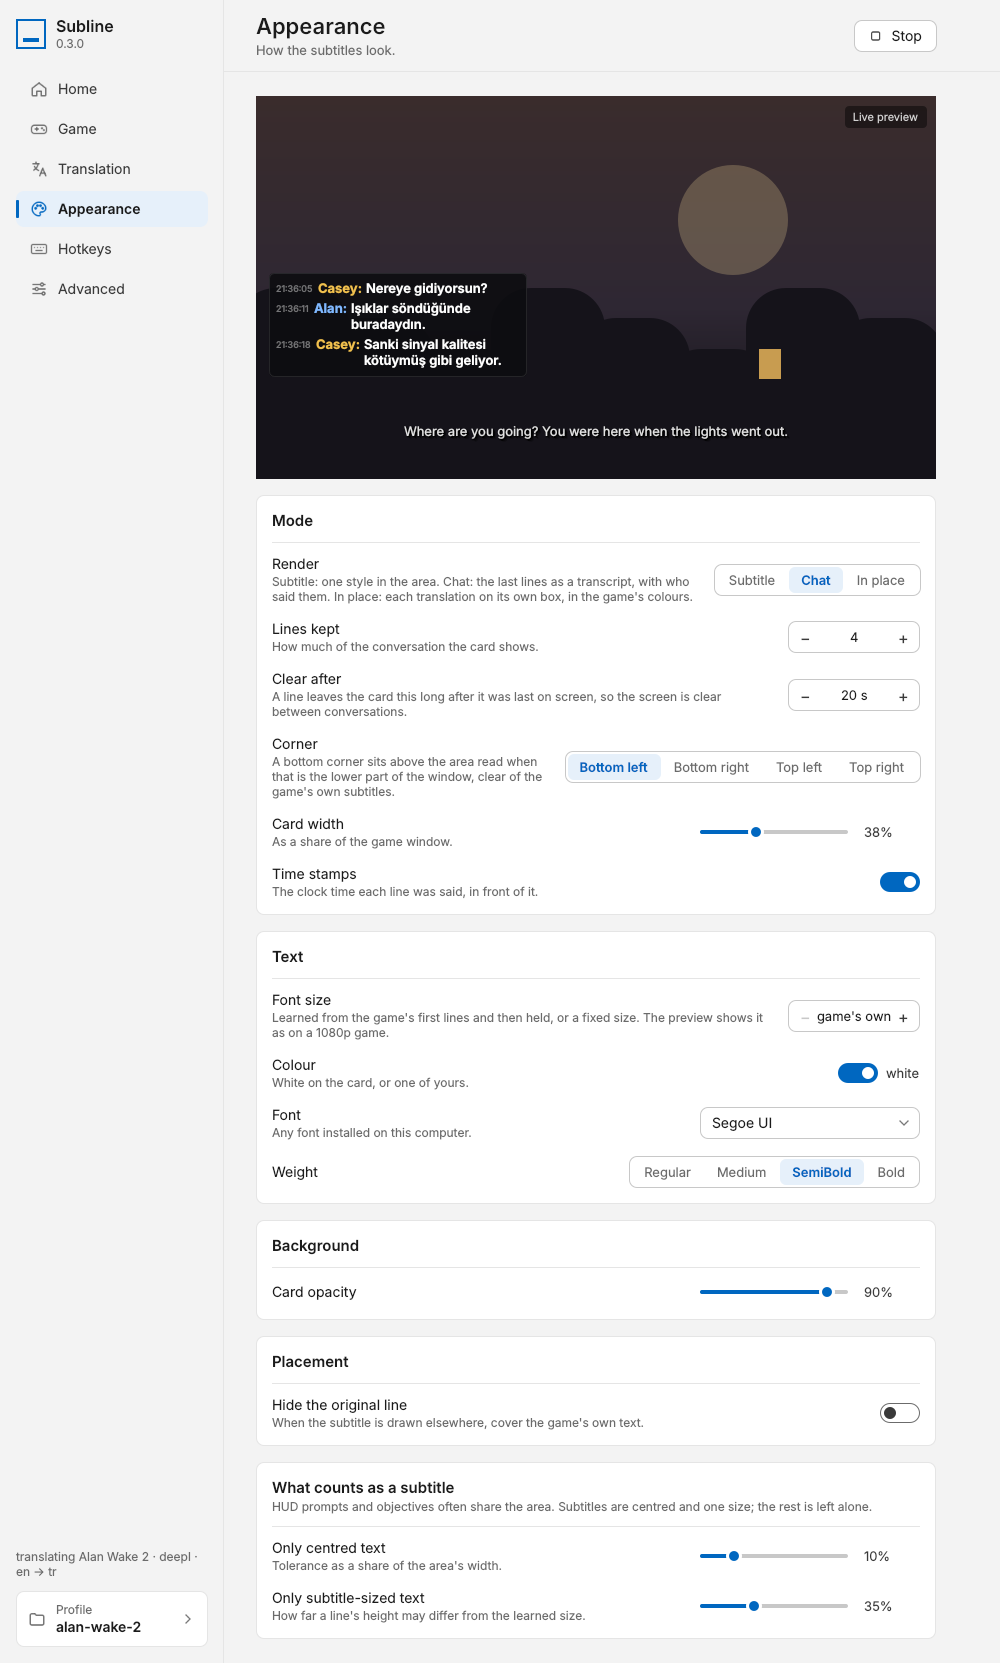
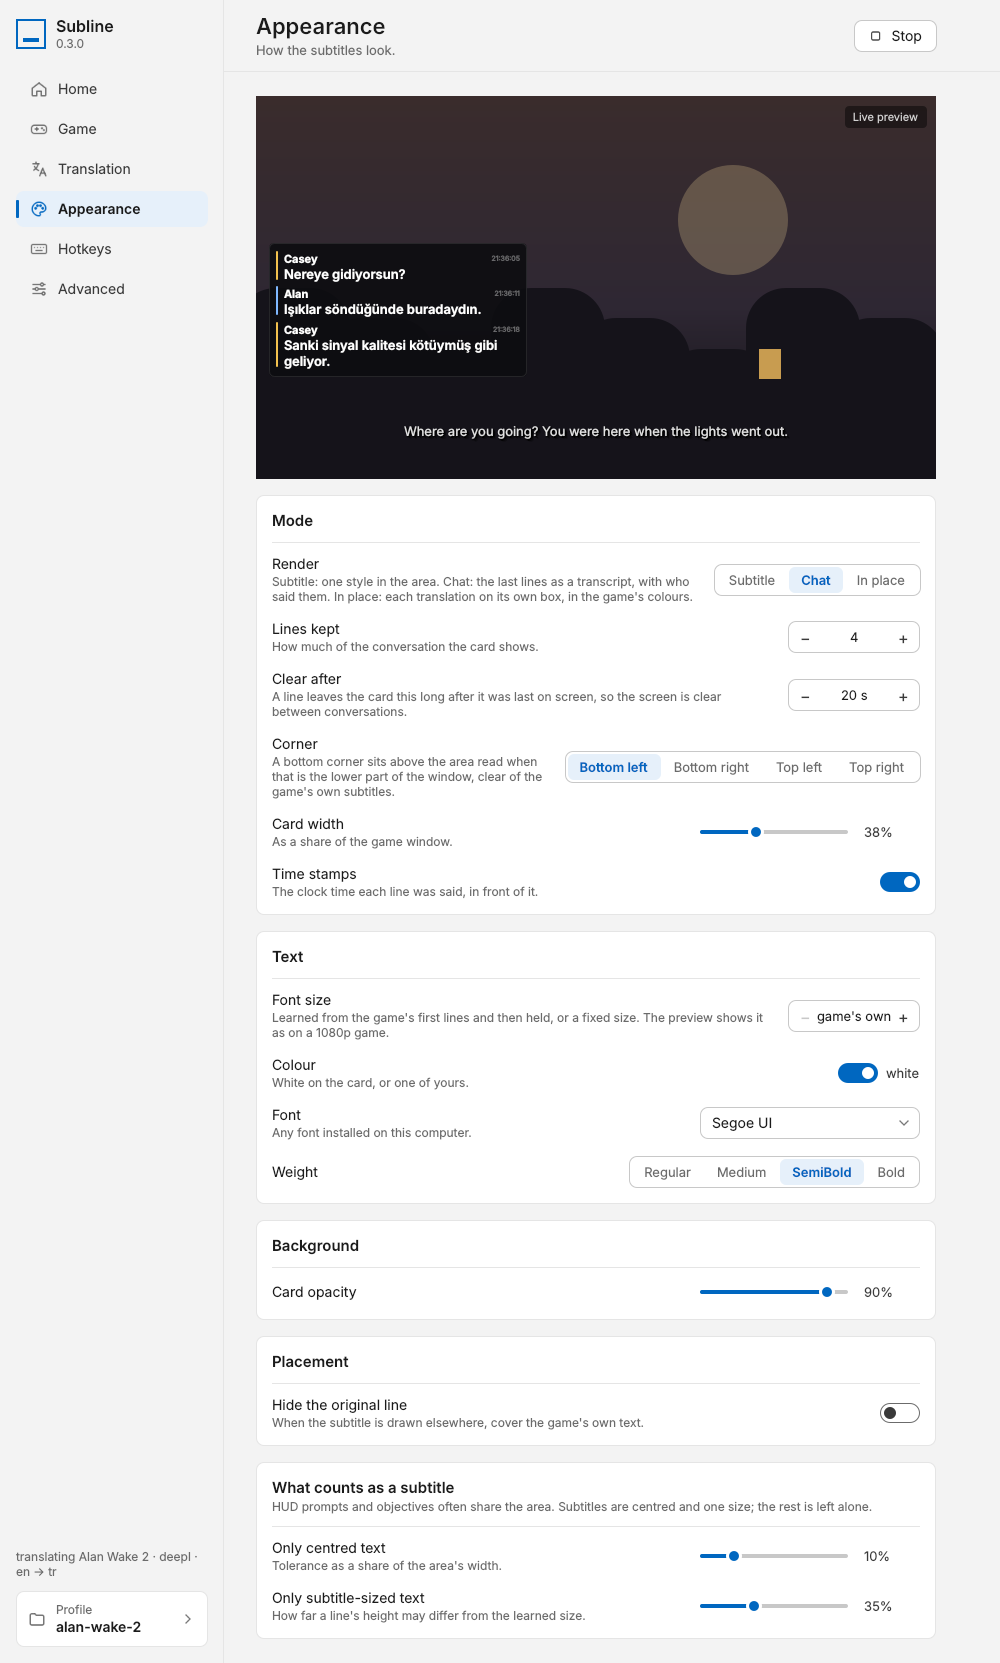
Chat card: a colour bar per line, the name over the words, the time at the right
The look picked from five rendered alternatives: each line gets a bar in
its speaker's colour beside it (white for a line with no speaker), the
name in white bold at 0.85 of the font size on a row of its own, the words
under it at full width, and the time, HH:MM:SS, small and faint at the
right of the name row (of the first words row without a name). The
coloured-name, words-beside layout goes.

Changed region(s): [[0.248, 0.1227, 0.527, 0.2453]]

diff --git a/src/gametl/overlay/paint.py b/src/gametl/overlay/paint.py
@@ -16,8 +16,9 @@ Styles:
 - "outline": outlined text only, in place.
 
 The chat card (ChatCard) is the transcript of chat mode: the last lines of
-dialogue, each with the time it was said and its speaker's name in a
-colour of its own, on a translucent card in a corner.
+dialogue on a translucent card in a corner, each with a bar in its
+speaker's colour, the name over the words and the time it was said at the
+right.
 
 Line heights come from the font's own metrics (ascent plus descent), so
 descenders are never clipped.
@@ -74,8 +75,11 @@ CHAT_PALETTE: tuple[RGB, ...] = (
 CHAT_CARD_RGB = (12, 12, 16)
 CHAT_BORDER_ALPHA = 28  # of a white hairline that lifts the card off a dark scene, at full card opacity
 CHAT_CORNERS = ("bottom-left", "bottom-right", "top-left", "top-right")
-CHAT_STAMP_ALPHA = 110  # the time a line was said: small and faint beside the name, never louder than it
-CHAT_STAMP_SCALE = 0.7  # of the card's font size
+CHAT_NAME_SCALE = 0.85  # the name's font size, of the card's: a heading over the words
+CHAT_STAMP_SCALE = 0.55  # the time's font size, of the card's
+CHAT_STAMP_ALPHA = 100  # the time a line was said: small and faint at the right of the name row
+CHAT_BAR_SCALE = 0.15  # the width of the bar in the speaker's colour beside each line, of the font size
+CHAT_BAR_PLAIN = QColor(255, 255, 255, 90)  # the bar of a line with no speaker
 _CHAT_SHADOW_BELOW = 128  # a card fainter than this no longer carries its text: the text gets a shadow
 
 
@@ -147,11 +151,13 @@ Drawable = RenderBlock | ChatCard
 
 @dataclass(slots=True)
 class ChatEntry:
-    """One line of the card as laid out: the stamp's and the name's
-    rectangles (empty without one; the name on a row of its own when it is
-    wide) and the words' rectangle with the rows they wrap to."""
+    """One line of the card as laid out: the bar beside it, the name's row
+    (empty without a speaker), the stamp at the right of that row (or of
+    the first words row) and the words' rectangle with the rows they wrap
+    to."""
 
     line: ChatLine
+    bar: QRect
     stamp: QRect
     name: QRect
     text: QRect
@@ -185,6 +191,11 @@ def subtitle_rect(zone: Box, anchor_y: int, text_w: int, text_h: int, position: 
 def _is_subtitle(block: RenderBlock) -> bool:
     """A block drawn in the subtitle style, placed in its zone."""
     return not block.outline and bool(block.lines) and block.style == "subtitle" and block.zone is not None
+
+
+def name_px(font_px: int) -> int:
+    """The speaker name's font size for a card of `font_px`."""
+    return max(6, round(font_px * CHAT_NAME_SCALE))
 
 
 def stamp_px(font_px: int) -> int:
@@ -380,35 +391,33 @@ class BlockPainter:
         return SubtitlePlacement(layout, text, pill, source)
 
     def place_chat(self, card: ChatCard) -> ChatPlacement:
-        """Lay the card out: each line a row of the time it was said, the
-        speaker's name and the words wrapped beside them (under them, when
-        the name takes more than half the width), stacked oldest first,
-        padded and placed in the corner. The oldest lines go when the card
-        would not fit the room."""
+        """Lay the card out: each line a bar in its speaker's colour, the
+        name on a row of its own with the time at the right, and the words
+        wrapped under it (a line with no speaker keeps the time at the right
+        of its first row), stacked oldest first, padded and placed in the
+        corner. The oldest lines go when the card would not fit the room."""
         px = card.font_px
         line_h = px * self.spacing_ratio(card.weight)
-        pad, gap, radius, margin = round(px * 0.55), round(px * 0.3), round(px * 0.4), px
+        pad, gap, radius, margin = round(px * 0.55), round(px * 0.25), round(px * 0.4), px
+        bar_w = max(2, round(px * CHAT_BAR_SCALE))
+        indent = bar_w + round(px * 0.5)  # from the bar to the text
         ax0, _, ax1, _ = card.area
         width = min(ax1 - ax0 - 2 * margin, max(5 * px, round((ax1 - ax0) * card.width)))
-        inner = width - 2 * pad
+        inner = width - 2 * pad - indent  # the text column
         measure = self.measurer(card.weight)
-        names = self.metrics_at(px, "bold")
         stamps = self.metrics_at(stamp_px(px), "regular")
-        # (line, the stamp's width, the name's width or 0 for a row of its own, rows)
-        laid: list[tuple[ChatLine, int, int, list[str]]] = []
+        laid: list[tuple[ChatLine, int, list[str]]] = []  # (line, the stamp's width, rows)
         for line in card.lines:
-            stamp_w = stamps.horizontalAdvance(line.stamp) + round(px * 0.35) if line.stamp else 0
-            name_w = names.horizontalAdvance(line.speaker + ":") + round(px * 0.3) if line.speaker else 0
-            if stamp_w + name_w > inner // 2:
-                name_w = 0
-            rows = wrap_words(line.text, inner - stamp_w - name_w, lambda s: measure(s, px))
-            laid.append((line, stamp_w, name_w, rows))
+            stamp_w = stamps.horizontalAdvance(line.stamp) + round(px * 0.4) if line.stamp else 0
+            text_w = inner if line.speaker else inner - stamp_w  # with no name row the time shares the first row
+            rows = wrap_words(line.text, max(px, text_w), lambda s: measure(s, px))
+            laid.append((line, stamp_w, rows))
 
-        def rows_of(entry: tuple[ChatLine, int, int, list[str]]) -> int:
-            line, _, name_w, rows = entry
-            return len(rows) + (1 if line.speaker and not name_w else 0)
+        def rows_of(entry: tuple[ChatLine, int, list[str]]) -> int:
+            line, _, rows = entry
+            return len(rows) + (1 if line.speaker else 0)
 
-        def height_of(entries: list[tuple[ChatLine, int, int, list[str]]]) -> int:
+        def height_of(entries: list[tuple[ChatLine, int, list[str]]]) -> int:
             return int(2 * pad + sum(rows_of(e) for e in entries) * line_h + gap * max(0, len(entries) - 1)) + 1
 
         room_top, room_bottom = chat_room(card, margin)
@@ -417,16 +426,17 @@ class BlockPainter:
         rect = chat_card_rect(card, width, height_of(laid), margin)
         entries: list[ChatEntry] = []
         top = float(rect.top() + pad)
-        for line, stamp_w, name_w, rows in laid:  # oldest at the top, the newest last
-            x, y = rect.left() + pad, int(top)
+        for line, stamp_w, rows in laid:  # oldest at the top, the newest last
+            x, y = rect.left() + pad + indent, int(top)
             row_h = int(line_h) + 1
-            own_row = bool(line.speaker) and not name_w
-            stamp = QRect(x, y, stamp_w, row_h) if stamp_w else QRect()
-            name = QRect(x + stamp_w, y, inner - stamp_w if own_row else name_w, row_h) if line.speaker else QRect()
-            text_x, text_y = x + stamp_w + name_w, y + int(line_h) if own_row else y
-            text = QRect(text_x, text_y, inner - stamp_w - name_w, int(len(rows) * line_h) + 1)
-            entries.append(ChatEntry(line, stamp, name, text, rows))
-            top += rows_of((line, stamp_w, name_w, rows)) * line_h + gap
+            whole = int(rows_of((line, stamp_w, rows)) * line_h) + 1
+            bar = QRect(rect.left() + pad, y + round(px * 0.1), bar_w, whole - round(px * 0.3))
+            name = QRect(x, y, inner - stamp_w, row_h) if line.speaker else QRect()
+            stamp = QRect(x + inner - stamp_w, y, stamp_w, row_h) if stamp_w else QRect()
+            text_y = y + int(line_h) if line.speaker else y
+            text = QRect(x, text_y, inner if line.speaker else inner - stamp_w, int(len(rows) * line_h) + 1)
+            entries.append(ChatEntry(line, bar, stamp, name, text, rows))
+            top += rows_of((line, stamp_w, rows)) * line_h + gap
         return ChatPlacement(rect, entries, line_h, radius)
 
     def place_subtitles(self, blocks: list[RenderBlock]) -> dict[int, SubtitlePlacement]:
@@ -548,9 +558,8 @@ class BlockPainter:
         self._draw_lines(p, layout.lines, placed.text, layout.line_height, QColor(*block.fg), decoration, font)
 
     def _paint_chat(self, p: QPainter, card: ChatCard) -> None:
-        """The bands over the source lines, the card, then each line: the
-        time muted, the speaker's name in its colour and the words beside
-        them."""
+        """The bands over the source lines, the card, then each line: its
+        bar, the time at the right, the name and the words."""
         p.setPen(Qt.PenStyle.NoPen)
         p.setBrush(PILL_COLOR)
         for box in card.covers:
@@ -565,19 +574,24 @@ class BlockPainter:
         p.setPen(QPen(QColor(255, 255, 255, CHAT_BORDER_ALPHA * alpha // 255), 1))
         p.drawRoundedRect(QRectF(placed.card).adjusted(0.5, 0.5, -0.5, -0.5), placed.radius, placed.radius)  # crisp
         stamp_font = self.font_at(stamp_px(card.font_px), "regular")
-        name_font = self.font_at(card.font_px, "bold")
+        name_font = self.font_at(name_px(card.font_px), "bold")
         text_font = self.font_at(card.font_px, card.weight)
-        flags = Qt.AlignmentFlag.AlignLeft | Qt.AlignmentFlag.AlignVCenter
+        left = Qt.AlignmentFlag.AlignLeft | Qt.AlignmentFlag.AlignVCenter
+        right = Qt.AlignmentFlag.AlignRight | Qt.AlignmentFlag.AlignVCenter
         decoration = "shadow" if alpha < _CHAT_SHADOW_BELOW else "none"  # a faint card needs the text to carry itself
         line_h = placed.line_height
+        fg = QColor(*card.fg)
         for entry in placed.entries:
+            colour = QColor(*CHAT_PALETTE[entry.line.speaker_index % len(CHAT_PALETTE)]) if entry.line.speaker else None
+            p.setPen(Qt.PenStyle.NoPen)
+            p.setBrush(colour or CHAT_BAR_PLAIN)
+            p.drawRoundedRect(QRectF(entry.bar), entry.bar.width() / 2, entry.bar.width() / 2)
             if entry.line.stamp:
                 muted = QColor(*card.fg, CHAT_STAMP_ALPHA)
-                self._draw_lines(p, [entry.line.stamp], entry.stamp, line_h, muted, decoration, stamp_font, flags)
+                self._draw_lines(p, [entry.line.stamp], entry.stamp, line_h, muted, decoration, stamp_font, right)
             if entry.line.speaker:
-                color = QColor(*CHAT_PALETTE[entry.line.speaker_index % len(CHAT_PALETTE)])
-                self._draw_lines(p, [entry.line.speaker + ":"], entry.name, line_h, color, decoration, name_font, flags)
-            self._draw_lines(p, entry.rows, entry.text, line_h, QColor(*card.fg), decoration, text_font, flags)
+                self._draw_lines(p, [entry.line.speaker], entry.name, line_h, fg, decoration, name_font, left)
+            self._draw_lines(p, entry.rows, entry.text, line_h, fg, decoration, text_font, left)
 
     def _draw_lines(
         self,

diff --git a/tests/test_chat_paint.py b/tests/test_chat_paint.py
@@ -1,8 +1,8 @@
 """The chat card: laid out in its corner above the strip, lines oldest
-first, the time and the name in front of the words, names in their
-speaker's colour, words wrapped to the card, the bands over the source
-lines, and the card drawn only when it has lines. Runs offscreen; nothing
-reads glyph shapes, so a font-less runner passes too."""
+first, each with a bar in its speaker's colour, the name over the words
+and the time at the right, words wrapped to the card, the bands over the
+source lines, and the card drawn only when it has lines. Runs offscreen;
+nothing reads glyph shapes, so a font-less runner passes too."""
 
 from __future__ import annotations
 
@@ -83,27 +83,24 @@ def test_lines_run_oldest_to_newest(painter: BlockPainter) -> None:
     assert [e.line.text for e in entries] == [text for _, text in SAMPLE]
     assert entries[0].text.top() < entries[1].text.top() < entries[2].text.top()
     assert all(e.text.top() >= placed.card.top() and e.text.bottom() <= placed.card.bottom() for e in entries)
-    # A line without a speaker has no name box and its words start at the card's padding.
+    # Every line has its bar beside it; a line without a speaker has no name row and its words start at the top.
+    for entry in entries:
+        assert entry.bar.right() < entry.text.left() and entry.bar.top() >= entry.name.top()
+        assert entry.text.top() == entry.name.top() + int(placed.line_height)  # the name over the words
     (entry,) = painter.place_chat(card([("", "Hello.")])).entries
     assert entry.name.isEmpty() and entry.stamp.isEmpty() and entry.text.left() == placed.entries[0].name.left()
+    assert entry.bar.right() < entry.text.left()
 
 
-def test_the_time_goes_in_front_of_the_name(painter: BlockPainter) -> None:
-    # The widest card: on a font-less runner every glyph is a full box, and the time and the
-    # name must still fit side by side with room left for the words.
-    placed = painter.place_chat(card(SAMPLE, stamp="21:36:05", width=1.0))
+def test_the_time_sits_at_the_right_of_the_name_row(painter: BlockPainter) -> None:
+    placed = painter.place_chat(card(SAMPLE, stamp="21:36:05"))
     for entry in placed.entries:
-        assert entry.stamp.left() == placed.card.left() + round(20 * 0.55)
-        assert entry.stamp.right() < entry.name.left() < entry.text.left()  # time, name, words
-        assert entry.stamp.top() == entry.name.top() == entry.text.top()
-    (plain,) = painter.place_chat(card([("", "Hello.")], stamp="21:36:05", width=1.0)).entries
-    assert plain.name.isEmpty() and plain.stamp.right() < plain.text.left()  # no name: time, then the words
-    with_time = painter.place_chat(card(SAMPLE, stamp="21:36:05", width=1.0)).entries[0].text.width()
-    without = painter.place_chat(card(SAMPLE, width=1.0)).entries[0].text.width()
-    assert with_time < without  # the words give way to the time
-    # On a narrow card the time and the name together would leave the words no room: the name takes a row.
-    (narrow,) = painter.place_chat(card(SAMPLE[:1], stamp="21:36:05", width=0.25)).entries
-    assert narrow.stamp.right() < narrow.name.left() and narrow.text.top() > narrow.name.top()
+        assert entry.stamp.top() == entry.name.top() and entry.stamp.right() == entry.text.right()
+        assert entry.name.right() < entry.stamp.left()  # the name is clipped before the time, never under it
+        assert entry.text.width() == entry.name.width() + entry.stamp.width()  # the words take the whole row
+    (plain,) = painter.place_chat(card([("", "Hello.")], stamp="21:36:05")).entries
+    assert plain.stamp.top() == plain.text.top() and plain.text.right() < plain.stamp.left()  # on the first row
+    assert plain.text.width() < painter.place_chat(card([("", "Hello.")])).entries[0].text.width()
 
 
 def test_long_lines_wrap_to_the_card(painter: BlockPainter) -> None:
@@ -116,10 +113,10 @@ def test_long_lines_wrap_to_the_card(painter: BlockPainter) -> None:
     assert placed.card.height() > painter.place_chat(card([("Alan", "Short.")])).card.height()
 
 
-def test_a_wide_name_takes_a_row_of_its_own(painter: BlockPainter) -> None:
+def test_a_wide_name_stays_inside_the_card(painter: BlockPainter) -> None:
     placed = painter.place_chat(card([("Commander Shepard Vakarian", "We should go now.")], width=0.3))
     (entry,) = placed.entries
-    assert entry.name.width() == entry.text.width() > 0  # the name spans the card, the words start under it
+    assert entry.name.width() == entry.text.width() > 0  # the name's row spans the words' column
     assert entry.text.top() >= entry.name.top() + int(placed.line_height)
     assert entry.text.right() <= placed.card.right() and entry.name.right() <= placed.card.right()
     assert placed.card.bottom() >= entry.text.bottom()
@@ -139,7 +136,8 @@ def test_a_faint_card_loses_its_border_and_shadows_its_text(painter: BlockPainte
     rect = painter.place_chat(card(SAMPLE)).card
     assert full[rect.top(), rect.center().x(), 3] > 0  # the hairline on the full card
     assert faint[rect.top(), rect.center().x(), 3] == 0  # none on the invisible one
-    assert faint[rect.center().y(), rect.center().x(), 3] == 0  # and no fill
+    assert faint[rect.center().y(), rect.left() + 3, 3] == 0  # and no fill (inside the card, left of the bars)
+    assert full[rect.center().y(), rect.left() + 3, 3] == 255
     text = painter.place_chat(card(SAMPLE)).entries[-1].text
     assert faint[text.top() : text.bottom(), text.left() : text.right(), 3].max() > 0  # the text still shows
 
@@ -152,12 +150,10 @@ def test_the_card_the_names_and_the_bands_are_drawn(painter: BlockPainter) -> No
     assert image[rect.center().y(), rect.center().x(), 3] >= 200  # the card, at its opacity
     assert image[390, 400, 3] >= 230  # the band over the source line, dark whatever the card's opacity
     assert image[10, 400, 3] == 0  # nothing outside
-    # The newest speaker's name is painted in its palette colour (BGRA in the buffer).
-    name = placed.entries[-1].name
-    patch = image[name.top() : name.bottom(), name.left() : name.right()]
-    r, g, b = CHAT_PALETTE[0]
-    tinted = patch[(patch[:, :, 3] > 0) & (np.abs(patch[:, :, 2].astype(int) - r) < 40)]
-    assert len(tinted) > 0 and all(abs(int(px[1]) - g) < 60 and abs(int(px[0]) - b) < 60 for px in tinted[:50])
+    # Each line's bar is painted in its speaker's palette colour (BGRA in the buffer).
+    for entry, index in zip(placed.entries, (0, 1, 0), strict=True):
+        b, g, r = image[entry.bar.center().y(), entry.bar.center().x(), :3]
+        assert (r, g, b) == CHAT_PALETTE[index]
 
 
 def test_an_empty_card_draws_nothing_but_its_bands(painter: BlockPainter) -> None:

diff --git a/README.md b/README.md
@@ -48,9 +48,9 @@ from a recording by an earlier build (see
   Long translations wrap at the same size, and lines shown together stack
   instead of overlapping.
 - **Or a chat transcript.** Chat mode keeps the last lines of dialogue on
-  a card in a corner, each with the time it was said and its speaker's
-  name in a colour of its own ("21:36:05 Casey: ..."), and clears the
-  card when the conversation pauses. Turn speaker names on in the
+  a card in a corner, each with a bar in its speaker's colour, the name
+  over the words and the time it was said, and clears the card when the
+  conversation pauses. Turn speaker names on in the
   game: the name in front of a line is kept as it is and the words alone
   are translated, with the speaker passed to DeepL and Claude as a hint.
 - **Three translators.** DeepL (the default: fast, strong for European
@@ -293,7 +293,8 @@ Most settings have a command-line equivalent (the hotkeys do not);
   elsewhere; off by default.
 - **Chat mode** (Appearance page, **Render** `chat`): the card shows the
   last **Lines kept** (`--chat-lines`, default 4) lines of dialogue,
-  oldest first, each with its speaker's name in a fixed colour; a line
+  oldest first, each with a bar in its speaker's fixed colour, the name
+  over the words and the time at the right; a line
   leaves **Clear after** seconds (`--chat-seconds`, default 20; 0 keeps
   it) after it was last on screen, so the card is gone between
   conversations and a line the game leaves up stays. The card takes
@@ -302,8 +303,8 @@ Most settings have a command-line equivalent (the hotkeys do not);
   corner sits above the area read when that is the lower part of the
   window, clear of the game's own subtitles, which **Hide the original
   line** can cover as in subtitle mode; the oldest lines are dropped when
-  the card would not fit. Each line starts with the clock time it was
-  said (**Time stamps**, `--no-chat-timestamps` turns them off). The text
+  the card would not fit. Each line carries the clock time it was said,
+  `HH:MM:SS` (**Time stamps**, `--no-chat-timestamps` turns them off). The text
   is the subtitle size (held from the first line up), font and weight,
   white unless a colour is set, on a card of the pill's opacity. Turn
   speaker names on in the game: a capitalised

diff --git a/PLAN.md b/PLAN.md
@@ -994,10 +994,12 @@ one, a line lost and found again within five seconds is not doubled, and
 lines age out after `chat_seconds`. `overlay/paint.py` gets `ChatCard`,
 `ChatLine` and `place_chat`: a translucent card with a hairline border in
 a corner of the client area (above the area read at the bottom corners),
-names bold in a six-colour palette by order of first speaking, words
-wrapped beside them, every line at full strength (a first cut faded the
-older ones; dropped on request), the clock time each line was said in
-front of it (`chat_timestamps`); sizes follow the subtitle font size. Speaker
+a bar in a six-colour palette by order of first speaking beside each line,
+the name in white over the words (a first cut coloured the name and put
+the words beside it; the bar won among five rendered looks), every line at
+full strength (a first cut faded the older ones; dropped on request), the
+clock time each line was said small at the right (`chat_timestamps`);
+sizes follow the subtitle font size. Speaker
 names are parsed in every mode (`textutil.split_speaker`: one or two
 capitalised words before a colon): the words alone are translated and
 cached, the subtitle and in-place modes put the name back in front, and
